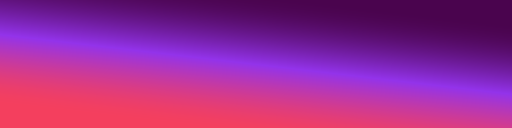
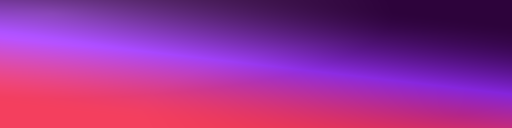
feat(theme): add immersive luxury palette tokens and specular sheen gradient assets
- Enhance gradient generator with top-left specular sheen highlight and vignette depth
- Update AppThemeOption with full luxury ambiance tokens (darkBackground, darkSurface, darkBorder, lightBackground, lightBorder)
- Update buildLightColors and buildDarkColors in colors.ts to dynamically apply whole-app luxury surfaces
- 0 TypeScript errors, 0 ESLint errors

Changed region(s): [[0.0, 0.0, 0.4062, 0.4375], [0.6875, 0.0, 1.0, 0.5]]

diff --git a/mobile/src/theme/appThemes.ts b/mobile/src/theme/appThemes.ts
@@ -66,37 +66,52 @@ export interface AppThemeOption {
   badgeBg: string;
   badgeText: string;
   tint: string;
+  // Immersive luxury palette tokens
+  darkBackground: string;
+  darkSurface: string;
+  darkSurfaceSubtle: string;
+  darkBorder: string;
+  lightBackground: string;
+  lightSurfaceSubtle: string;
+  lightBorder: string;
 }
 
 export const APP_THEMES: AppThemeOption[] = [
   {
     id: 'royal_amethyst',
     label: 'Royal Amethyst',
-    tagline: 'Nobility & Intellect',
-    psychology: 'Deep imperial violet with cobalt sheen. Inspires intellectual curiosity and premium editorial authority.',
-    gradientStart: '#3B0764',
-    gradientMid: '#6D28D9',
-    gradientEnd: '#2563EB',
+    tagline: 'Nobility & Deep Intellect',
+    psychology: 'Deep imperial plum with cobalt sheen. Inspires intellectual curiosity and premium editorial authority.',
+    gradientStart: '#2E0249',
+    gradientMid: '#7C3AED',
+    gradientEnd: '#1D4ED8',
     assets: {
       header: headerRoyalAmethyst,
       button: buttonRoyalAmethyst,
       swatch: swatchRoyalAmethyst,
     },
-    primary: '#7C3AED',
-    primaryDark: '#5B21B6',
+    primary: '#8B5CF6',
+    primaryDark: '#6D28D9',
     primaryLight: '#DDD6FE',
     secondary: '#2563EB',
-    accent: '#8B5CF6',
+    accent: '#C084FC',
     badgeBg: '#EDE9FF',
     badgeText: '#7C3AED',
-    tint: '#7C3AED',
+    tint: '#8B5CF6',
+    darkBackground: '#090412',
+    darkSurface: '#130924',
+    darkSurfaceSubtle: '#1C0F35',
+    darkBorder: 'rgba(167, 139, 250, 0.16)',
+    lightBackground: '#FAF8FF',
+    lightSurfaceSubtle: '#F3EFFF',
+    lightBorder: '#E4DCFF',
   },
   {
     id: 'champagne_gold',
     label: 'Champagne Gold',
-    tagline: 'Opulence & Prestige',
+    tagline: 'Opulence & Haute Horlogerie',
     psychology: 'Obsidian bronze into lustrous Tuscan gold. Evokes timeless wealth, confidence, and high executive value.',
-    gradientStart: '#451A03',
+    gradientStart: '#2B1404',
     gradientMid: '#B45309',
     gradientEnd: '#F59E0B',
     assets: {
@@ -104,21 +119,28 @@ export const APP_THEMES: AppThemeOption[] = [
       button: buttonChampagneGold,
       swatch: swatchChampagneGold,
     },
-    primary: '#D97706',
-    primaryDark: '#92400E',
+    primary: '#F59E0B',
+    primaryDark: '#B45309',
     primaryLight: '#FDE68A',
-    secondary: '#F59E0B',
+    secondary: '#D97706',
     accent: '#FBBF24',
     badgeBg: '#FEF3C7',
     badgeText: '#B45309',
-    tint: '#D97706',
+    tint: '#F59E0B',
+    darkBackground: '#0C0A07',
+    darkSurface: '#17140F',
+    darkSurfaceSubtle: '#231E17',
+    darkBorder: 'rgba(245, 158, 11, 0.18)',
+    lightBackground: '#FAF8F5',
+    lightSurfaceSubtle: '#F7F2EB',
+    lightBorder: '#EAE0D2',
   },
   {
     id: 'emerald_prestige',
     label: 'Emerald Prestige',
-    tagline: 'Abundance & Serenity',
+    tagline: 'Abundance & Calm Endurance',
     psychology: 'British racing emerald into radiant jade mint. Minimizes optical fatigue and induces parasympathetic calm for long reading sessions.',
-    gradientStart: '#022C22',
+    gradientStart: '#021C15',
     gradientMid: '#047857',
     gradientEnd: '#10B981',
     assets: {
@@ -126,21 +148,28 @@ export const APP_THEMES: AppThemeOption[] = [
       button: buttonEmeraldPrestige,
       swatch: swatchEmeraldPrestige,
     },
-    primary: '#059669',
-    primaryDark: '#064E3B',
+    primary: '#10B981',
+    primaryDark: '#047857',
     primaryLight: '#A7F3D0',
-    secondary: '#10B981',
+    secondary: '#059669',
     accent: '#34D399',
     badgeBg: '#D1FAE5',
     badgeText: '#065F46',
-    tint: '#059669',
+    tint: '#10B981',
+    darkBackground: '#050D0A',
+    darkSurface: '#0C1813',
+    darkSurfaceSubtle: '#13251E',
+    darkBorder: 'rgba(16, 185, 129, 0.16)',
+    lightBackground: '#F5FAF7',
+    lightSurfaceSubtle: '#EBF5F0',
+    lightBorder: '#D4EAE0',
   },
   {
     id: 'sunset_cashmere',
     label: 'Sunset Cashmere',
-    tagline: 'Passion & Vitality',
+    tagline: 'Passion & Vital Engagement',
     psychology: 'Venetian crimson into warm Tuscan amber. Stimulates dopamine-led engagement and emotional connection.',
-    gradientStart: '#881337',
+    gradientStart: '#4C0519',
     gradientMid: '#E11D48',
     gradientEnd: '#F97316',
     assets: {
@@ -148,43 +177,57 @@ export const APP_THEMES: AppThemeOption[] = [
       button: buttonSunsetCashmere,
       swatch: swatchSunsetCashmere,
     },
-    primary: '#E11D48',
+    primary: '#F43F5E',
     primaryDark: '#BE123C',
     primaryLight: '#FECDD3',
     secondary: '#F97316',
     accent: '#FB7185',
     badgeBg: '#FFE4E6',
     badgeText: '#BE123C',
-    tint: '#E11D48',
+    tint: '#F43F5E',
+    darkBackground: '#0D0608',
+    darkSurface: '#1A0D12',
+    darkSurfaceSubtle: '#26141A',
+    darkBorder: 'rgba(244, 63, 94, 0.18)',
+    lightBackground: '#FFF8F9',
+    lightSurfaceSubtle: '#FFF0F3',
+    lightBorder: '#FFE0E6',
   },
   {
     id: 'sapphire_celestial',
     label: 'Sapphire Celestial',
-    tagline: 'Trust & Clarity',
+    tagline: 'Executive Trust & Clarity',
     psychology: 'Midnight executive abyss into luminous cobalt. Establishes deep cognitive trust, stability, and peaceful focus.',
-    gradientStart: '#0B1329',
+    gradientStart: '#040C1A',
     gradientMid: '#1D4ED8',
-    gradientEnd: '#0EA5E9',
+    gradientEnd: '#0284C7',
     assets: {
       header: headerSapphireCelestial,
       button: buttonSapphireCelestial,
       swatch: swatchSapphireCelestial,
     },
-    primary: '#0284C7',
+    primary: '#38BDF8',
     primaryDark: '#0369A1',
     primaryLight: '#BAE6FD',
     secondary: '#2563EB',
-    accent: '#38BDF8',
+    accent: '#60A5FA',
     badgeBg: '#E0F2FE',
     badgeText: '#0369A1',
-    tint: '#0284C7',
+    tint: '#38BDF8',
+    darkBackground: '#040812',
+    darkSurface: '#091222',
+    darkSurfaceSubtle: '#0F1E36',
+    darkBorder: 'rgba(59, 130, 246, 0.18)',
+    lightBackground: '#F5F9FF',
+    lightSurfaceSubtle: '#EBF2FF',
+    lightBorder: '#D6E4FF',
   },
   {
     id: 'velvet_orchid',
     label: 'Velvet Orchid',
-    tagline: 'Haute Couture & Spark',
+    tagline: 'Haute Joaillerie & Creative Spark',
     psychology: 'Byzantine royal plum with radiant coral-orchid glow. Exudes modern luxury, style, and charismatic creative energy.',
-    gradientStart: '#4A044E',
+    gradientStart: '#2D033B',
     gradientMid: '#9333EA',
     gradientEnd: '#F43F5E',
     assets: {
@@ -192,14 +235,21 @@ export const APP_THEMES: AppThemeOption[] = [
       button: buttonVelvetOrchid,
       swatch: swatchVelvetOrchid,
     },
-    primary: '#9333EA',
+    primary: '#C084FC',
     primaryDark: '#7E22CE',
     primaryLight: '#F5D0FE',
     secondary: '#F43F5E',
-    accent: '#EC4899',
+    accent: '#E879F9',
     badgeBg: '#FAE8FF',
     badgeText: '#86198F',
-    tint: '#9333EA',
+    tint: '#C084FC',
+    darkBackground: '#0C0310',
+    darkSurface: '#180820',
+    darkSurfaceSubtle: '#240D30',
+    darkBorder: 'rgba(192, 38, 211, 0.18)',
+    lightBackground: '#FAF5FF',
+    lightSurfaceSubtle: '#F5EBFF',
+    lightBorder: '#EBD6FF',
   },
 ];
 

diff --git a/mobile/src/theme/colors.ts b/mobile/src/theme/colors.ts
@@ -97,8 +97,8 @@ export const lightColors = {
 };
 
 // ─────────────────────────────────────────────────────────────────────────────
-// DARK THEME — Option 1: Dark Premium Editorial (Exact match to prototype screenshot)
-// Pitch noir base, radiant purple/violet CTAs, smoky glass cards with white-to-black radiant borders
+// DARK THEME — Option 1: Dark Premium Editorial
+// Pitch noir base, radiant purple/violet CTAs, smoky glass cards
 // ─────────────────────────────────────────────────────────────────────────────
 export const darkColors = {
   // Foundations: Pitch noir charcoal
@@ -107,17 +107,17 @@ export const darkColors = {
   surfaceSubtle: '#1E1F26',
   surfaceHighlight: '#282932',
 
-  // Text: Luminous soft off-white (toned down to eliminate eye glare in dark mode)
+  // Text: Luminous soft off-white
   textPrimary: '#E2E4EB',
   textSecondary: '#9496A1',
   textMuted: '#646672',
 
-  // Brand: Vibrant Radiant Purple / Violet from the screenshot (NO YELLOW CTAs!)
-  primary: '#8B5CF6',       // Vibrant violet for all primary CTAs
-  primaryDark: '#7C3AED',   // Pressed / deep violet
-  primaryLight: '#A78BFA',  // Soft violet tint
-  secondary: '#C084FC',     // Accent fuchsia / lavender
-  accent: '#A855F7',        // Highlights / sparkles
+  // Brand: Vibrant Radiant Purple
+  primary: '#8B5CF6',
+  primaryDark: '#7C3AED',
+  primaryLight: '#A78BFA',
+  secondary: '#C084FC',
+  accent: '#A855F7',
 
   // UI: Radiant borders with white highlight on top
   border: 'rgba(255, 255, 255, 0.12)',
@@ -150,20 +150,23 @@ export type ThemeColors = typeof lightColors;
 
 // ─────────────────────────────────────────────────────────────────────────────
 // THEME-AWARE COLOR FACTORY
-// Merges the active AppThemeOption gradient tokens into the base palette so
-// every component that calls useAppTheme().colors gets the right accent colour.
+// Merges the active AppThemeOption luxury tokens into the base palette so
+// every component that calls useAppTheme().colors gets the right luxury ambiance.
 // ─────────────────────────────────────────────────────────────────────────────
 import type { AppThemeOption } from './appThemes';
 
 export function buildLightColors(theme: AppThemeOption): ThemeColors {
   return {
     ...lightColors,
-    primary: theme.primary,
+    background: theme.lightBackground || lightColors.background,
+    surfaceSubtle: theme.lightSurfaceSubtle || lightColors.surfaceSubtle,
+    border: theme.lightBorder || lightColors.border,
+    primary: theme.primaryDark, // rich, high-contrast primary for light mode
     primaryDark: theme.primaryDark,
     primaryLight: theme.primaryLight,
     secondary: theme.secondary,
     accent: theme.accent,
-    tint: theme.tint,
+    tint: theme.primaryDark,
     badgeBg: theme.badgeBg,
     badgeText: theme.badgeText,
     gradientStart: theme.gradientStart,
@@ -174,16 +177,21 @@ export function buildLightColors(theme: AppThemeOption): ThemeColors {
 export function buildDarkColors(theme: AppThemeOption): ThemeColors {
   return {
     ...darkColors,
+    background: theme.darkBackground || darkColors.background,
+    surface: theme.darkSurface || darkColors.surface,
+    surfaceSubtle: theme.darkSurfaceSubtle || darkColors.surfaceSubtle,
+    card: theme.darkSurface || darkColors.card,
+    border: theme.darkBorder || darkColors.border,
+    tabBar: theme.darkBackground || darkColors.tabBar,
     primary: theme.primary,
     primaryDark: theme.primaryDark,
     primaryLight: theme.primaryLight,
     secondary: theme.secondary,
     accent: theme.accent,
-    tint: theme.tint,
+    tint: theme.primary,
     badgeBg: theme.badgeBg,
     badgeText: '#FFFFFF',
     gradientStart: theme.gradientStart,
     gradientEnd: theme.gradientEnd,
   };
 }
-
